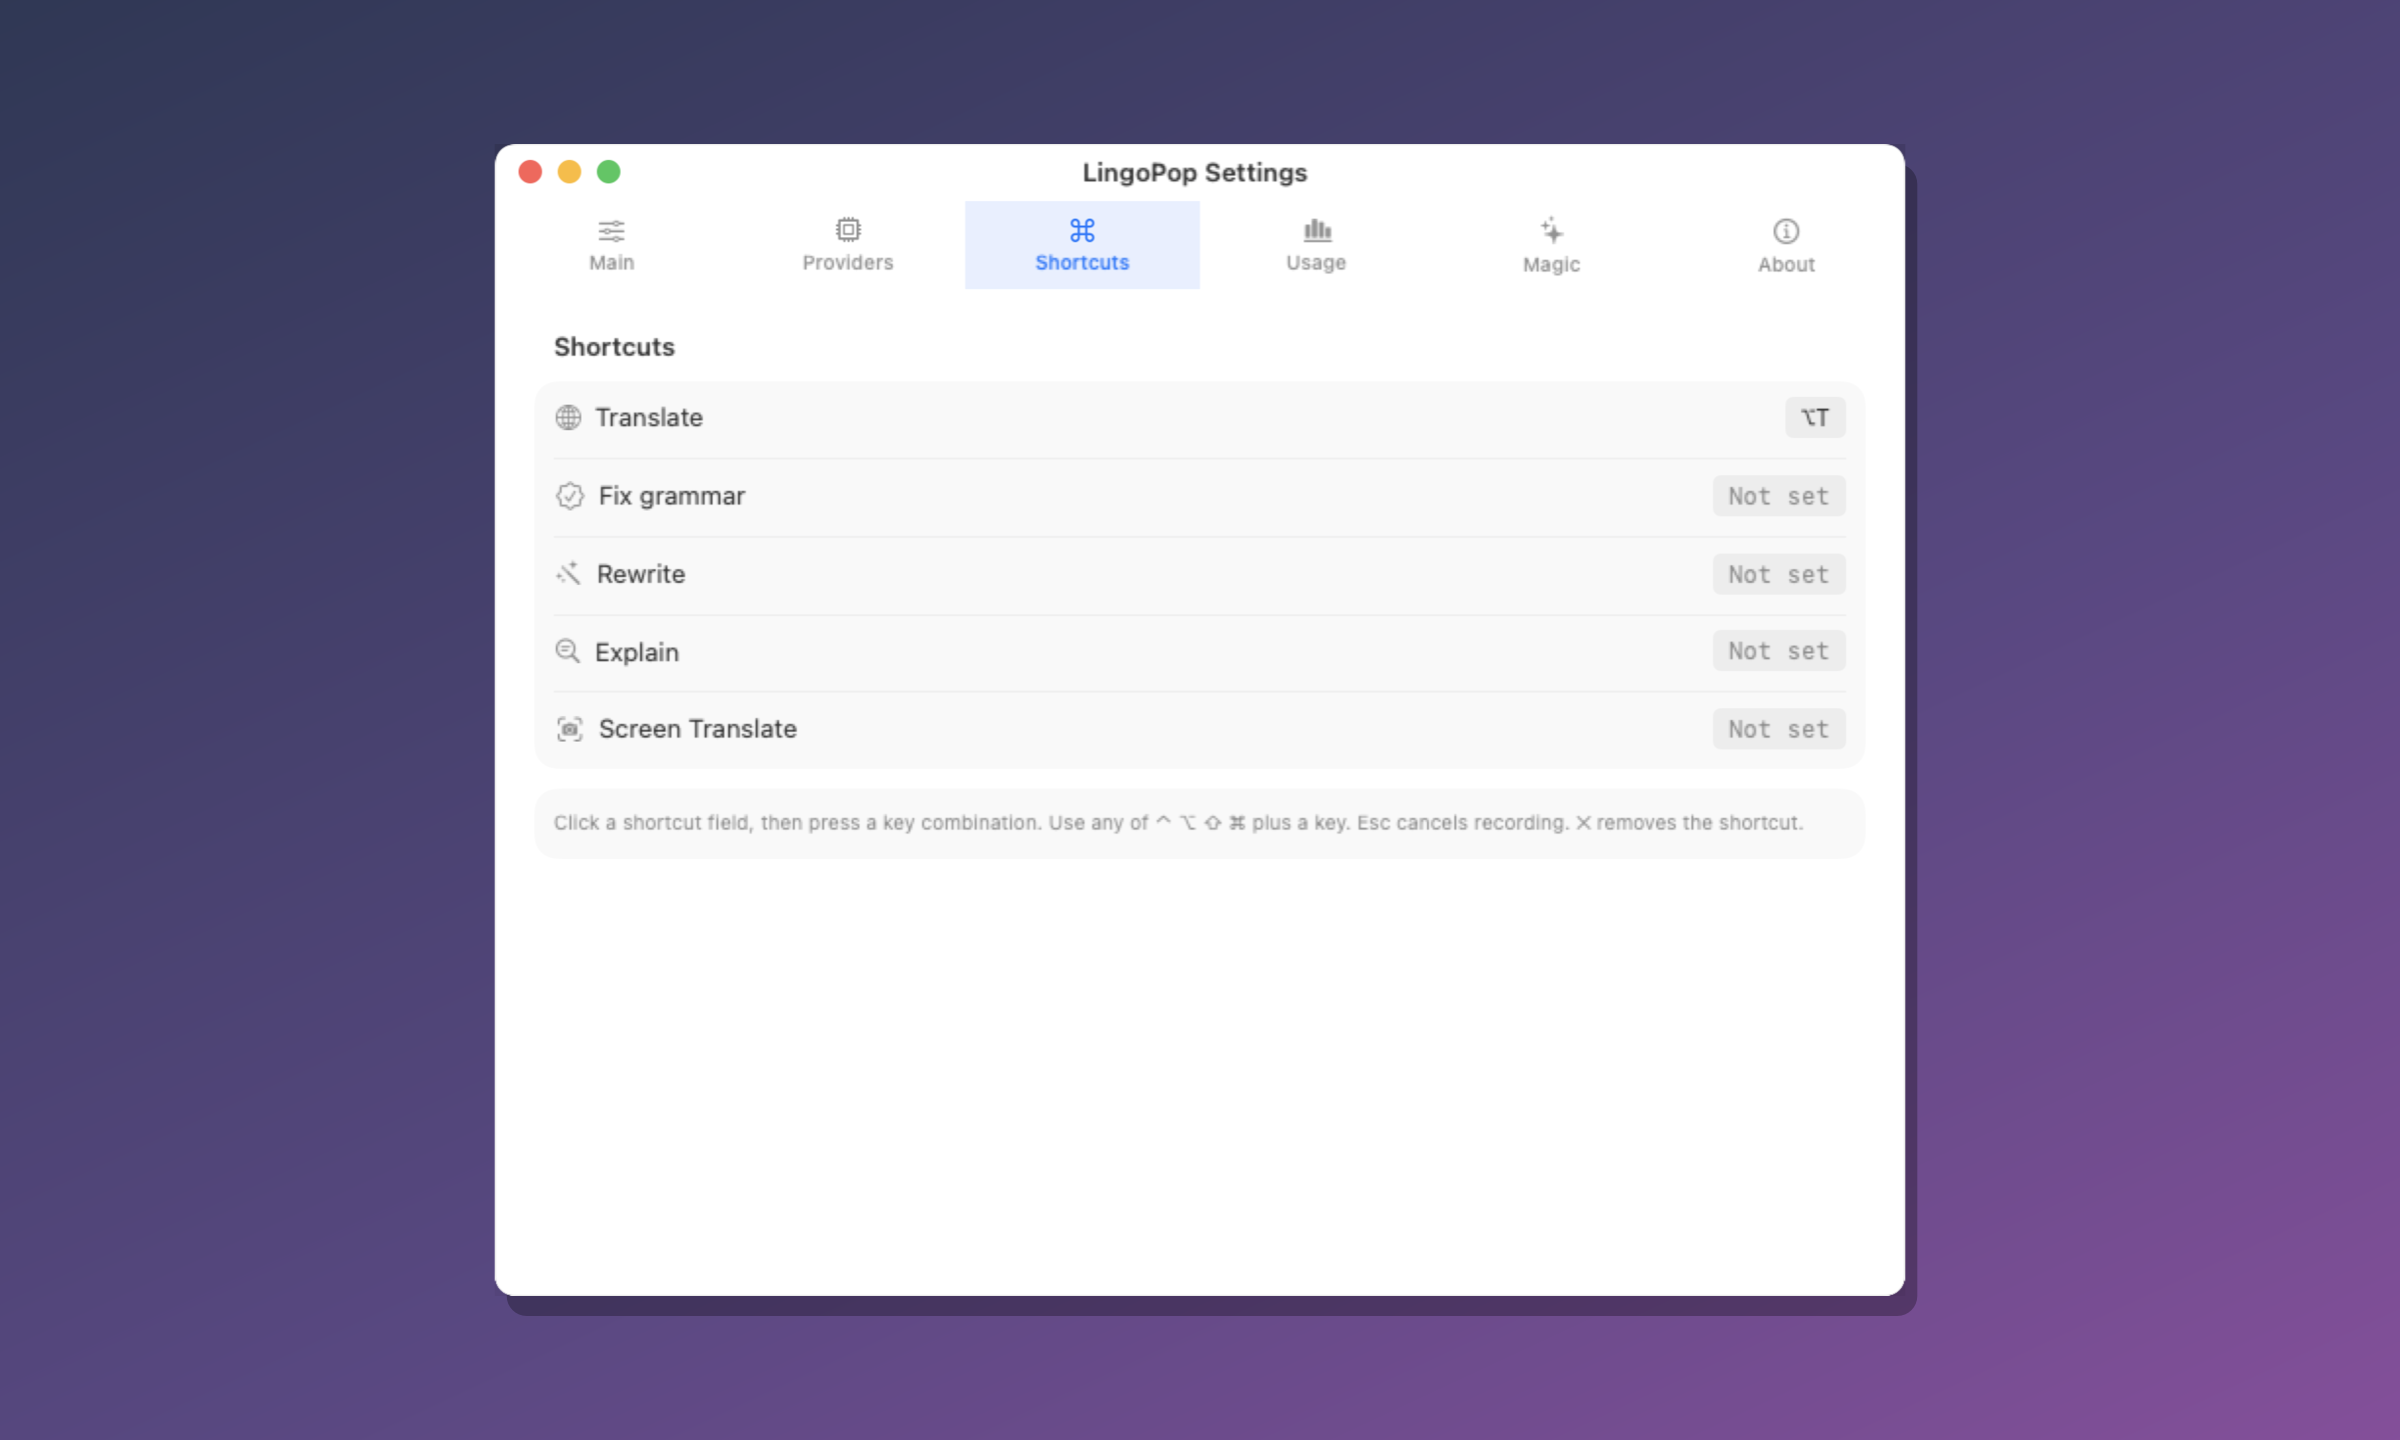
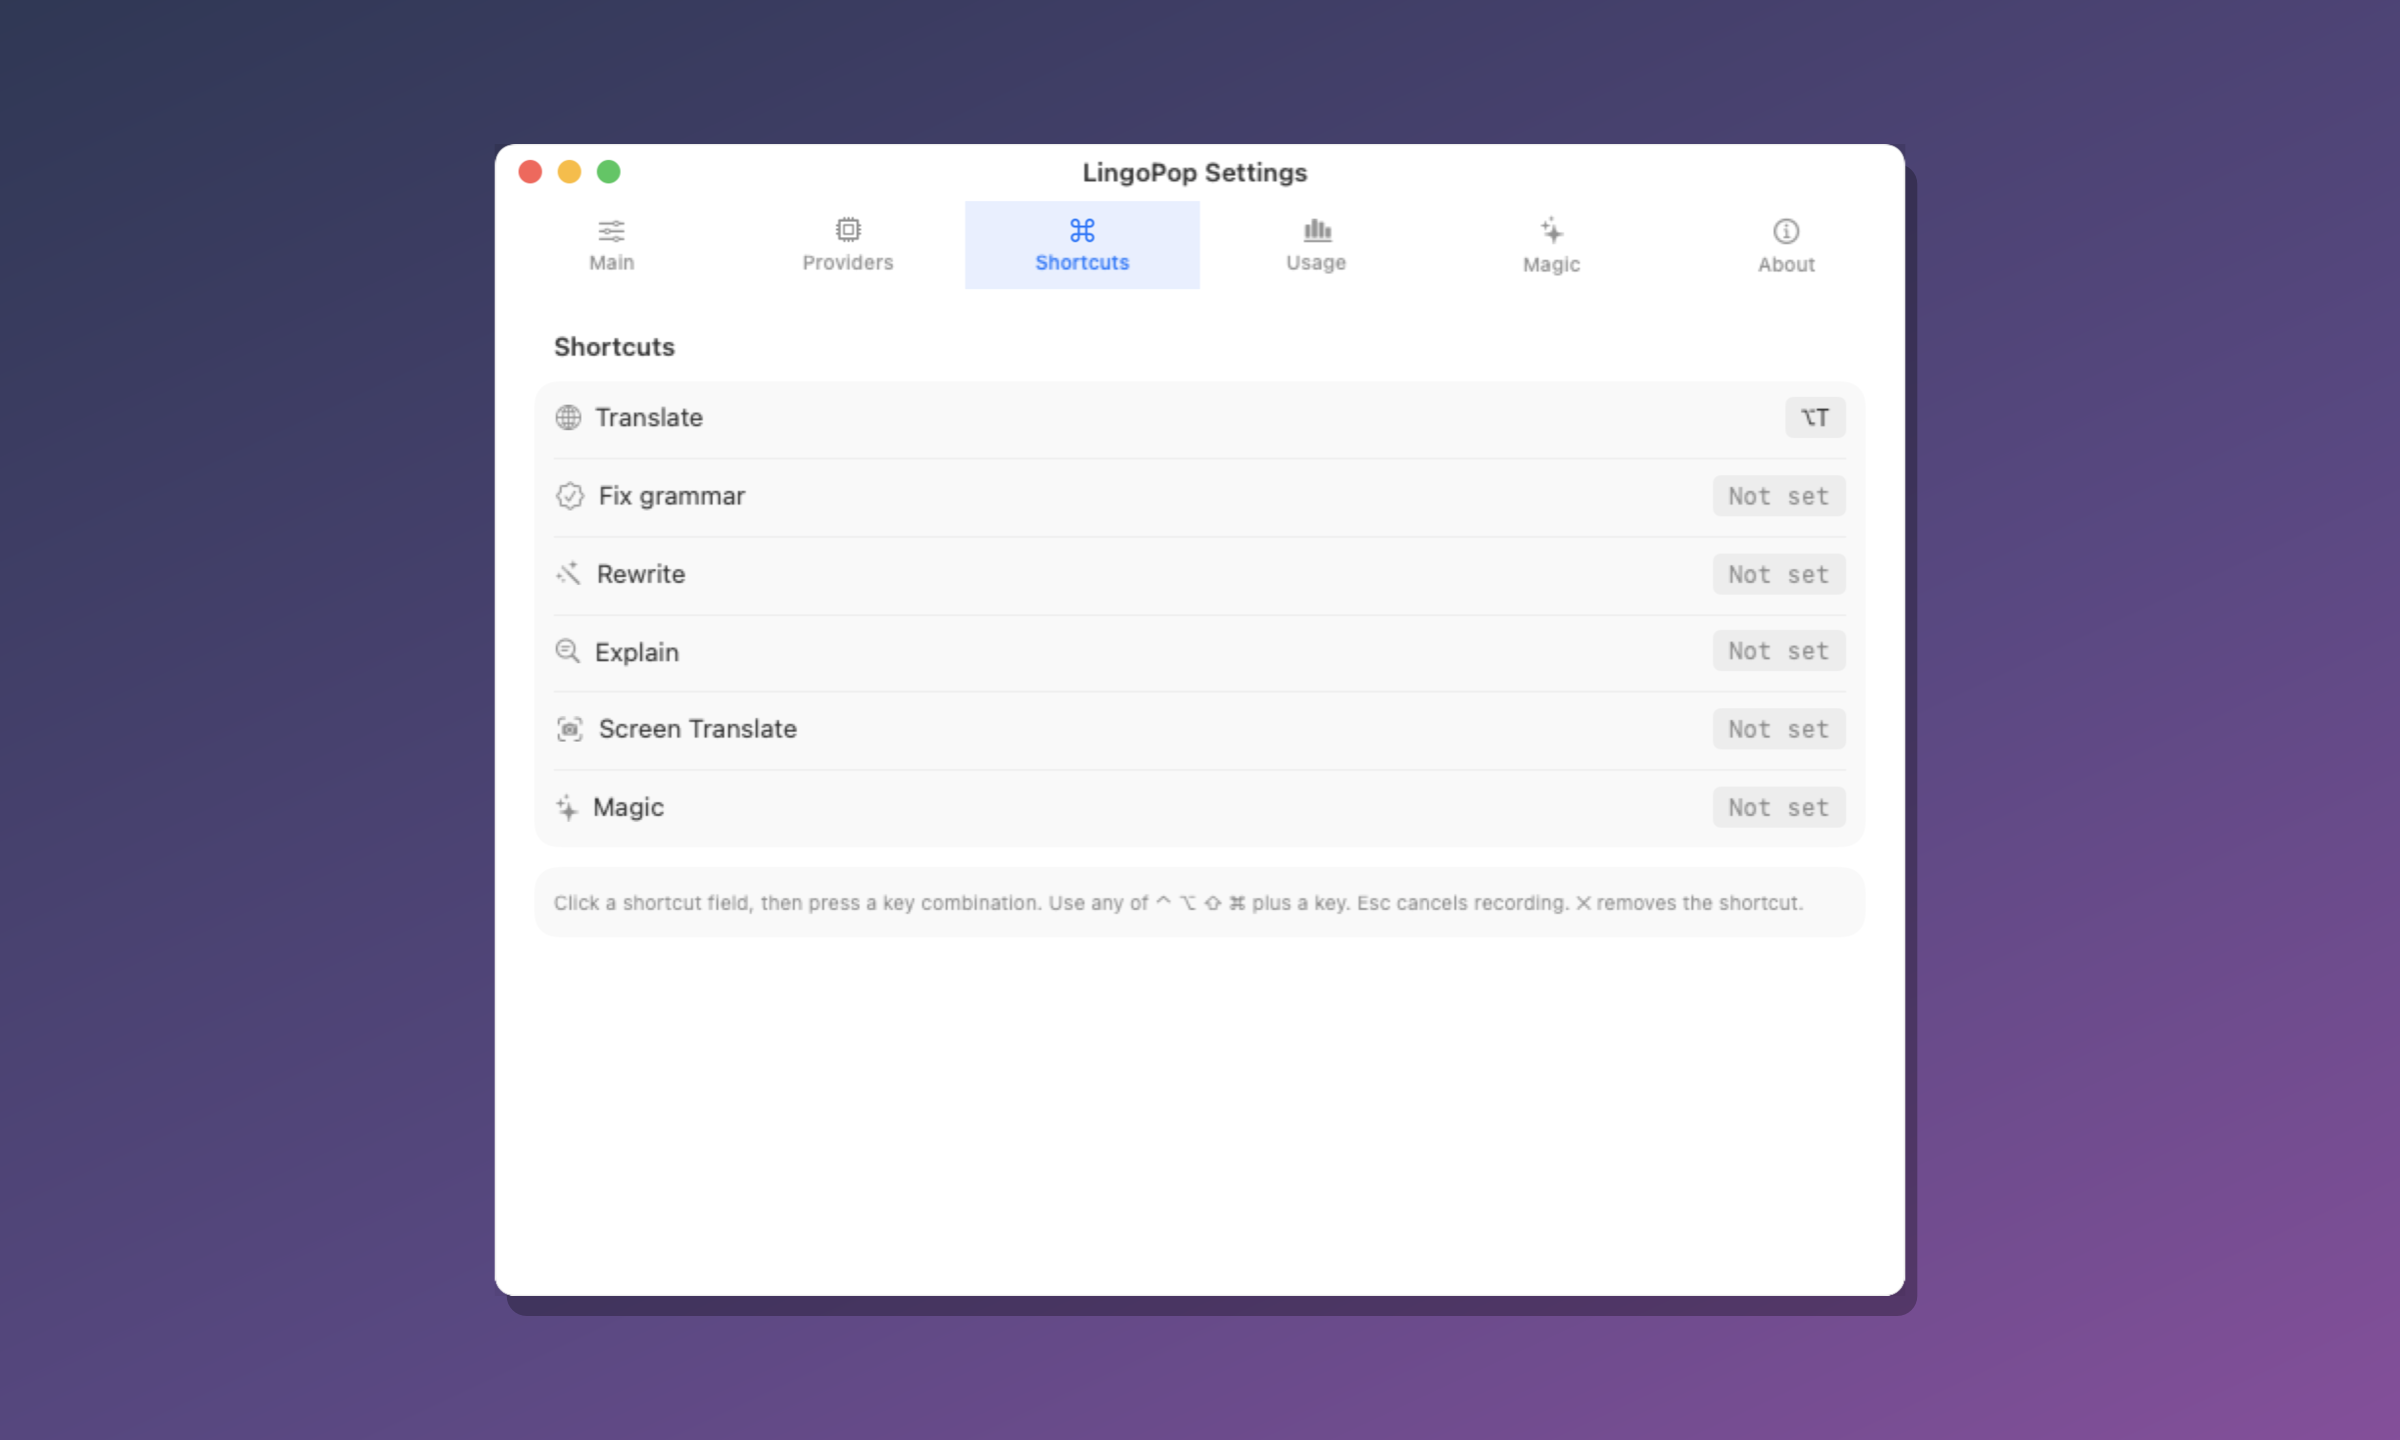
fix: add Magic to all screenshot fixtures; enforce light-mode for consistent grays

diff --git a/scripts/render-screenshots.swift b/scripts/render-screenshots.swift
@@ -293,6 +293,7 @@ func buildMenuPanel() -> NSView {
         OperationMenuRowView(title: "Rewrite", symbol: "wand.and.stars", shortcut: "", width: width),
         OperationMenuRowView(title: "Explain", symbol: "text.magnifyingglass", shortcut: "", width: width),
         OperationMenuRowView(title: "Screen Translate", symbol: "camera.viewfinder", shortcut: "", width: width),
+        OperationMenuRowView(title: "Magic", symbol: "sparkles", shortcut: "", width: width),
         MenuSeparatorView(width: width),
         SubmenuRowView(title: "Target: \(AppFixture.targetLanguage)", width: width),
         CommandRowView(title: "History…", shortcut: "⌘H", width: width),
@@ -421,7 +422,8 @@ struct FixtureSettingsShell<Content: View>: View {
             Color.clear.tag(1).tabItem { Label("Providers", systemImage: "cpu") }
             Color.clear.tag(2).tabItem { Label("Shortcuts", systemImage: "command") }
             Color.clear.tag(3).tabItem { Label("Usage", systemImage: "chart.bar.xaxis") }
-            Color.clear.tag(4).tabItem { Label("About", systemImage: "info.circle") }
+            Color.clear.tag(4).tabItem { Label("Magic", systemImage: "sparkles") }
+            Color.clear.tag(5).tabItem { Label("About", systemImage: "info.circle") }
         }
         .frame(width: 720, height: 560)
     }
@@ -534,7 +536,7 @@ struct FixtureProvidersTab: View {
                         Image(systemName: "cpu").font(.system(size: 24)).foregroundStyle(.tint)
                         VStack(alignment: .leading, spacing: 2) {
                             Text("Claude").font(.system(size: 16, weight: .semibold))
-                            Text("Translate · Fix grammar · Rewrite · Explain · Screen Translate")
+                            Text("Translate · Fix grammar · Rewrite · Explain · Screen Translate · Magic")
                                 .font(.caption).foregroundStyle(.secondary)
                         }
                         Spacer()
@@ -578,7 +580,8 @@ struct FixtureShortcutsTab: View {
         ("checkmark.seal", "Fix grammar", nil),
         ("wand.and.stars", "Rewrite", nil),
         ("text.magnifyingglass", "Explain", nil),
-        ("camera.viewfinder", "Screen Translate", nil)
+        ("camera.viewfinder", "Screen Translate", nil),
+        ("sparkles", "Magic", nil)
     ]
 
     var body: some View {
@@ -814,6 +817,7 @@ struct SettingsTabHost: View {
 // MARK: - Render all
 
 func renderAll(outDir: String) throws {
+    NSApp.appearance = NSAppearance(named: .aqua)
     let fm = FileManager.default
     try fm.createDirectory(atPath: outDir, withIntermediateDirectories: true)
 
